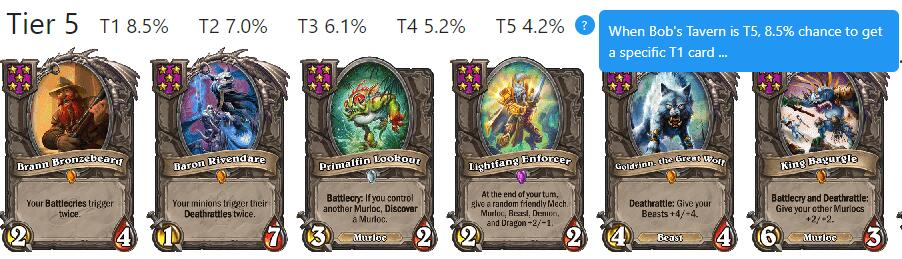
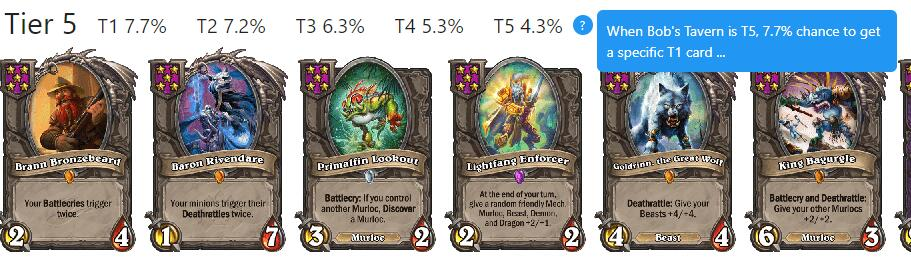
update card pool value https://hearthstone.gamepedia.com/Battlegrounds

diff --git a/gulpfile.js b/gulpfile.js
@@ -77,9 +77,8 @@ function others() {
   fs.copyFileSync("python/cards_150.png", "dist/cards_150.png")
   fs.copyFileSync("python/cards_150_cn.json", "dist/cards_150_cn.json")
   fs.copyFileSync("python/cards_150_cn.png", "dist/cards_150_cn.png")
-  fs.copyFileSync("src/strategy.json", "dist/strategy.json")
   fs.copyFileSync("src/icon.ico", "dist/icon.ico")
-  return gulp.src(['src/data.json'])
+  return gulp.src(['src/strategy.json'])
     .pipe(gulp.dest('dist'));
 }
 

diff --git a/src/main.js b/src/main.js
@@ -71,7 +71,7 @@ function getLang() {
 
 let teirInfo = {
     1: {
-        eachCardsCount: 18,
+        eachCardsCount: 16,
         cardsChosen: 3
     },
     2: {
@@ -91,7 +91,7 @@ let teirInfo = {
         cardsChosen: 5
     },
     6: {
-        eachCardsCount: 6,
+        eachCardsCount: 7,
         cardsChosen: 6
     },
 }
